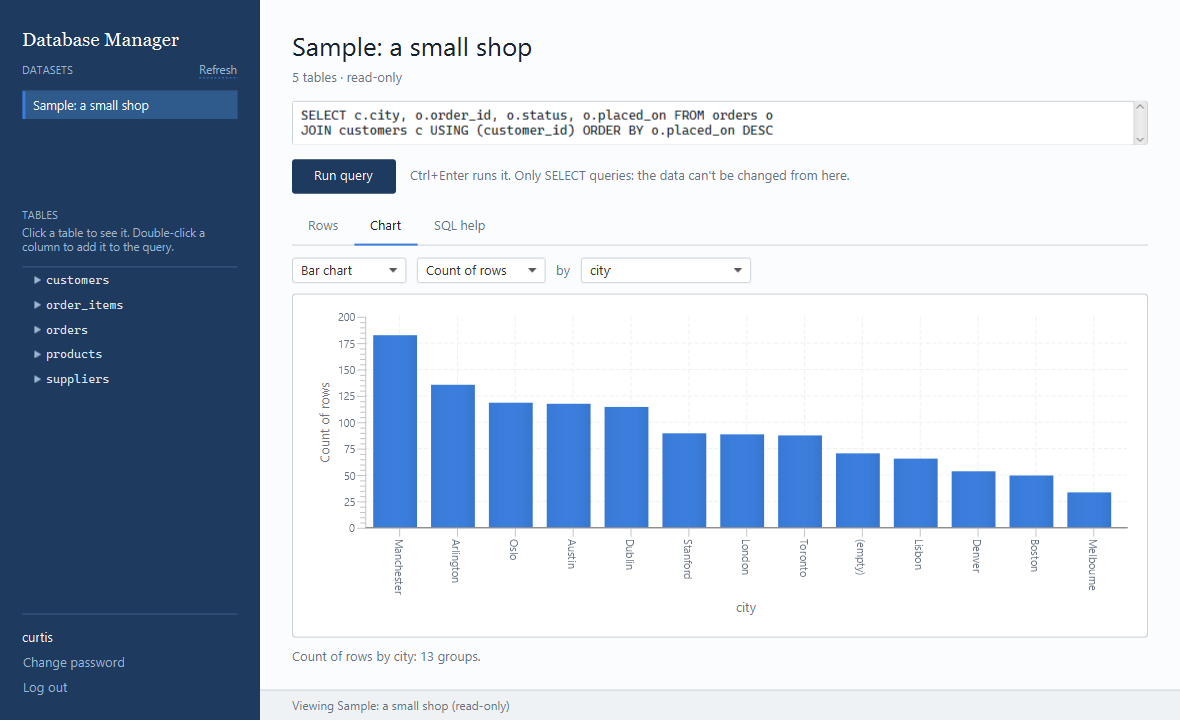
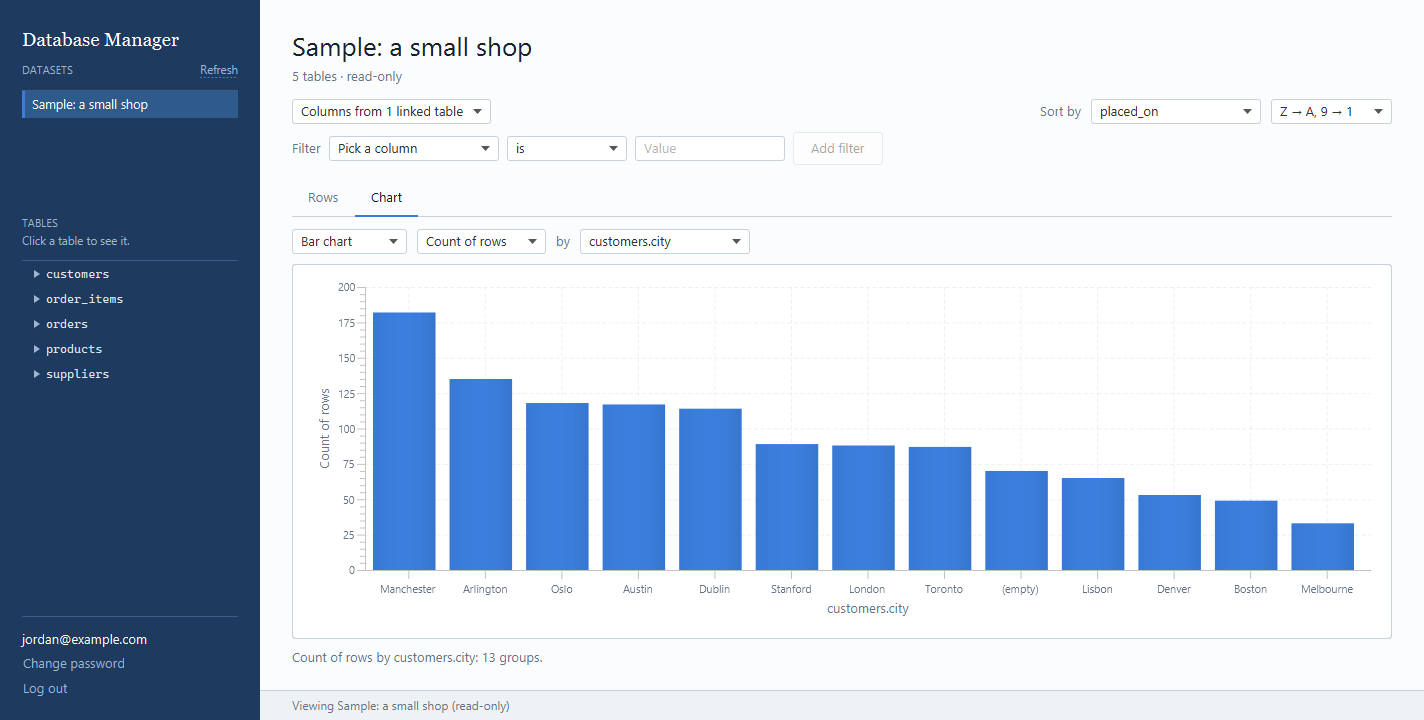
Retake README screenshots for the job fair
The Home screenshots still showed the SQL box that the point-and-click
builder replaced. Retakes them on the sample shop (orders joined to
customers, filtered to Boston; bar and pie charts), and adds the import
list, the Users panel and the Create account screen.

diff --git a/README.md b/README.md
@@ -5,7 +5,7 @@ admins drag and drop CSV or JSON files to turn them into datasets, and users
 explore and chart them by pointing and clicking, with no SQL needed. SQLite-backed
 login/registration with a USER / ADMIN / OWNER role hierarchy.
 
-![Query results on the sample shop](documentation/screenshots/home-query.png)
+![Orders joined to their customers, filtered to Boston and sorted newest first, all by point and click](documentation/screenshots/home-query.png)
 
 ## Highlights
 
@@ -23,19 +23,29 @@ login/registration with a USER / ADMIN / OWNER role hierarchy.
 
 ## Screenshots
 
-**Relationships found automatically, drawn as a diagram (admin)**
+**Drop in CSV or JSON files and import them as one dataset (admin)**
+
+![Import list with five CSV files](documentation/screenshots/admin-import.png)
+
+**How the tables link, drawn as a diagram (admin)**
 
 ![Relationships diagram](documentation/screenshots/admin-relationships.png)
 
 **Charts from any table: bar, line, pie or scatter**
 
-![Bar chart of orders by city](documentation/screenshots/home-chart-bar.png)
+![Bar chart of orders by customer city](documentation/screenshots/home-chart-bar.png)
 
-![Pie chart of orders by city](documentation/screenshots/home-chart-pie.png)
+![Pie chart of orders by status](documentation/screenshots/home-chart-pie.png)
 
-**Sign in**
+**Manage accounts: reset passwords and delete users, guarded by role (admin)**
+
+![Users panel](documentation/screenshots/admin-users.png)
+
+**Sign in, or create an account**
 
 ![Login screen](documentation/screenshots/login.png)
+
+![Create account screen](documentation/screenshots/create-account.png)
 
 ## What it does
 
